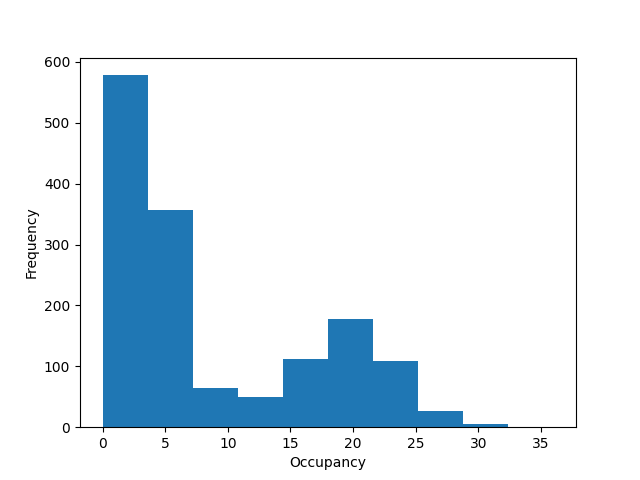
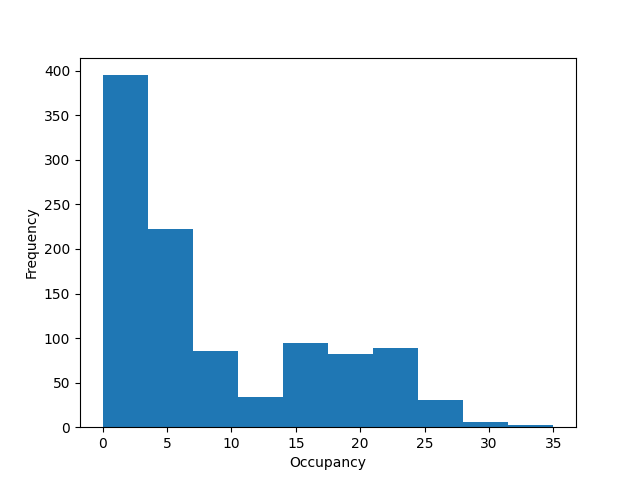
Cleaned up algorithm and updated histograms

diff --git a/analysis.py b/analysis.py
@@ -1,3 +1,11 @@
+# McKenna Damschroder and Zongxin Cui - 09/2020
+#
+# All code written for the sensor mini-project is contained in this
+# file except for Task 1. Code for task 1 was added directly to client.py.
+# This file includes the analysis code for finding the median/variance of
+# the sensor data and graphing the probability distributions as well as 
+# an algorithm for detecting anomalies in the temperature data. 
+
 import json
 from datetime import datetime
 import pandas as pd
@@ -9,6 +17,7 @@ def main():
 	co = []
 	timeInterval = []
 
+	# Reading in sensor data
 	time = -1;
 	with open('data.txt', "r") as f:
 		for line in f:
@@ -26,6 +35,7 @@ def main():
 		f.close()
 			
 
+	# Using Pandas series to find median, variance, and probabiltiy distribution for each set of data
 	tempData = pd.Series(temperature)
 	print("Temperature Median: ", tempData.median())
 	print("Temperature Variance: ", tempData.var())
@@ -33,14 +43,6 @@ def main():
 	plt.xlabel("Temperature (in Celsius)")
 	plt.savefig("images/temp.png")
 	plt.clf()
-
-	with open('data.txt', "r") as f:
-		for line in f:
-			r = json.loads(line)
-			room = list(r.keys())[0]
-			if r[room]["temperature"][0] > tempData.median() + tempData.var():
-				print("temperature anomalies: %s in %s \n" %(r[room]["temperature"][0], room))
-
 
 	occupData = pd.Series(occupancy)
 	print("Occupancy Median: ", occupData.median())
@@ -62,6 +64,22 @@ def main():
 	ax = timeData.plot.kde()
 	plt.xlabel("Time (seconds)")
 	plt.savefig("images/timeInterval.png")
+
+	# Detecting temperature anomalies and printing anomalies to file
+	o = open("anomalies.txt", "w")
+	print("\nTemperature anomalies: ")
+	with open('data.txt', "r") as f:
+		for line in f:
+			r = json.loads(line)
+			room = list(r.keys())[0]
+			if (
+				r[room]["temperature"][0] > tempData.median() + 2** tempData.std()
+				or r[room]["temperature"][0] < tempData.median() - 2**tempData.std()
+			):
+				print("%s in %s at %s" %(r[room]["temperature"][0], room, r[room]["time"]))
+				o.write("%s in %s at %s\n" %(r[room]["temperature"][0], room, r[room]["time"]))
+		f.close()
+		o.close()
 
 if __name__ == "__main__":
 	main()

diff --git a/src/sp_iotsim/client.py b/src/sp_iotsim/client.py
@@ -40,6 +40,8 @@ async def main(port: int, addr: str, max_packets: int, log_file: Path):
                 pass
                 # print(f"{i} total messages received")
             print(data)
+
+            # Write data to text file
             f = open("data.txt", "a")
             f.write(data)
             f.write('\n')

diff --git a/Report.md b/Report.md
@@ -9,23 +9,36 @@ What is the greeting string issued by the server to the client upon first connec
 Task 2:
 
 What are the median and variance observed from the temperature data? 
- - Median: 22.976429549397288
- - Variance: 1019642.1939205542
+ - Median: 23.005916771008064
+ - Variance: 13.431942756792905
 
 What are the median and variance observed from the occupancy data?
  - Median: 5.0
- - Variance: 64.87875984503773
+ - Variance: 63.6028364871368
 
 Plot the probability distribution function for each sensor type.
-NEED TO ADD (images are in images folder) Note: temperature has one called tempNoOutlier.png because it has an extreme outlier (38870.0176590916) that made the graph irrelevant. So the no outlier graph cuts off values at 100. I believe this cuts off that extreme outlier and one that is around 136(?).
+NEED TO ADD (images are in images folder)
 
 
 What is the mean and variance of the time interval of the sensor readings?
- - Mean: 0.9693993684922244
- - Variance: 0.86833733304211
+ - Mean: 1.0368927617675312
+ - Variance: 1.0847226416405662
  
 Plot the probability distribution function for the time intervals.
 NEED TO ADD (image in images folder)
 
 Does it mimic a well-known distribution for connection intervals in large systems?
 TO DO
+
+Task 3:
+We implemented an algorithm that checks if a temperature data point is further than 2 standard deviations away from the mean. The anomalies detected in our data set using this algorithm can be found in anomalies.txt.
+See anomalies.txt for list of detected anomalies.
+Does a persistent change in temperature	always indicate a failed sensor?
+What are possible bounds on temperature for each room type?
+
+Task 4:
+How is this simulation reflective of the real world?
+How is this simulation deficient? What factors does it fail to account for?
+How is the difficulty of initially using this Python websockets library as compared to a compiled language e.g. C++ websockets?
+Would it be better to have the server poll the sensors, or the sensors reach out to the server when they have data?
+
